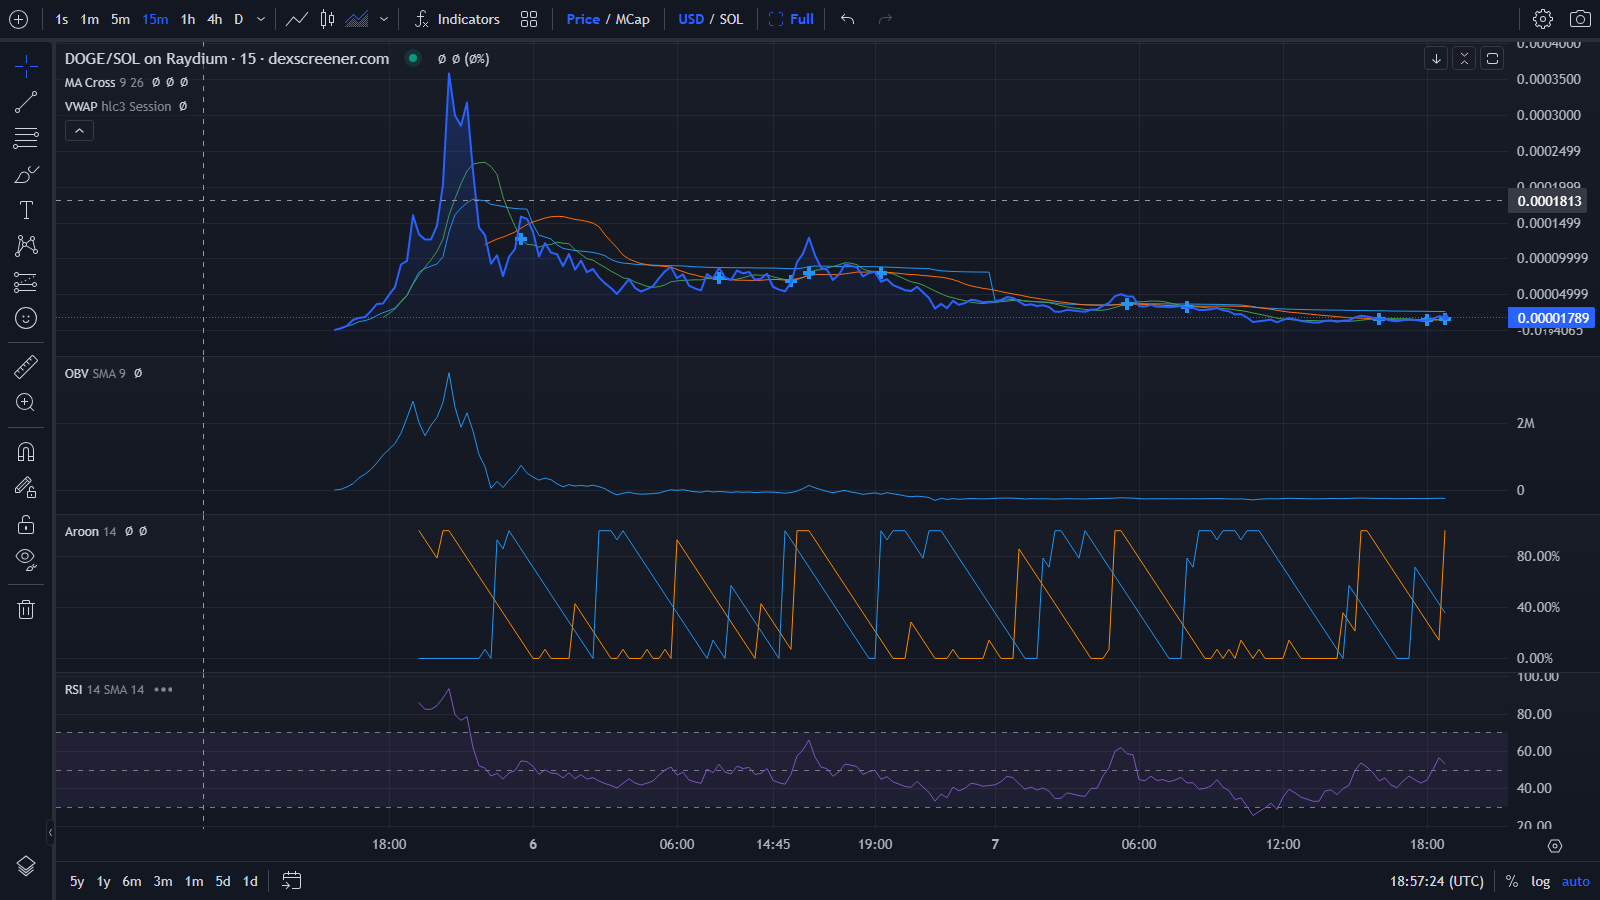
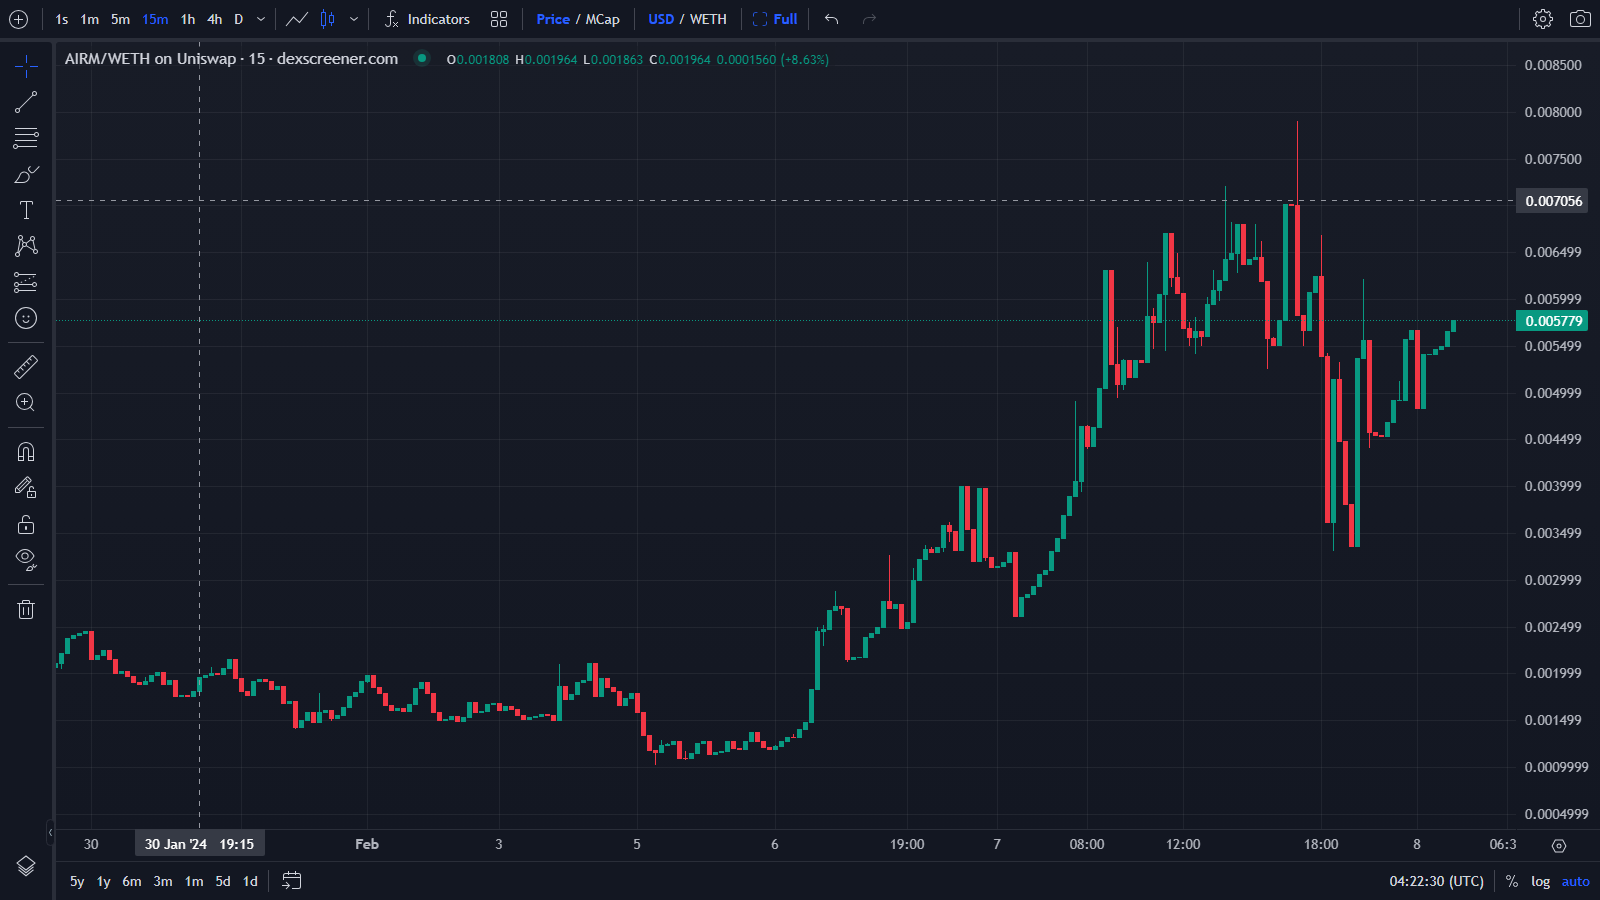
complete: dex

diff --git a/src/main/main_commands.py b/src/main/main_commands.py
@@ -170,24 +170,26 @@ async def dx_handle(update: Update, context: ContextTypes.DEFAULT_TYPE) -> None:
     sent_message = await message.reply_text(f'Searching info of `{user_input}` on {user.chain} for {user.interval} period', parse_mode=ParseMode.MARKDOWN)
 
     chain_name, info = dx_get_info(default_chain=user.chain, user_input=user_input)
+    print(chain_name, info)
+    
     if info:
         if chain_name == True:
-            await dx_final_response(message=sent_message, chain_info=info, interval=user.interval, indicators=user.indicators, style=user.style)
+            await dx_final_response(message=sent_message, context=context, chain_info=info, interval=user.interval, indicators=user.indicators, style=user.style)
         else:
-            await sent_message.edit_text(f'⚠ There isn\'t info of {user_input} on {user.chain}. So researching on {chain_name}.')
-            await dx_select_platform(message=sent_message, chain_info=info, user_input=user_input, interval=user.interval)
+            # await sent_message.edit_text(f'⚠ There isn\'t info of {user_input} on {user.chain}. So researching on {chain_name}.')
+            await dx_select_platform(message=sent_message, context=context, chain_info=info, user_input=user_input, interval=user.interval, indicators=user.indicators, style=user.style)
     else:
-        await sent_message.edit_text(f'❌ The {"symbol" if len(user_input) > 20 else "address"} `{user_input}` you entered is either not available on supported exchanges or could not be matched to a project by our search algorithm. Please contact me directly @fieryfox617',parse_mode=ParseMode.MARKDOWN)
+        await sent_message.edit_text(f'❌ This {"symbol" if len(user_input) > 20 else "address"} you entered is either not available on supported exchanges or could not be matched to a project by our search algorithm. Please contact me directly @fieryfox617',parse_mode=ParseMode.MARKDOWN)
         await asyncio.sleep(5)
         await sent_message.delete()
         # sent_message.reply_photo()
 
-async def dx_final_response(message: Update.message, chain_info:dict, interval:str, indicators:str, style:str) -> None:
+async def dx_final_response(message: Update.message, context: ContextTypes.DEFAULT_TYPE, chain_info:dict, interval:str, indicators:str, style:str) -> None:
     file_path = "screen.png"
     await message.edit_text(f'Generating chart for `{chain_info.pair_address}` on {chain_info.chain_id} for {interval} period', parse_mode=ParseMode.MARKDOWN)
     picture = get_picture(chain=chain_info.chain_id, address=chain_info.pair_address, file_path=file_path, indicators=indicators, style=style)
     if picture != 0:
-        await message.edit_text(f'❌ The {"symbol" if len(chain_info.pair_address) > 20 else "address"} `{chain_info.pair_address}` you entered is either not available on supported exchanges or could not be matched to a project by our search algorithm. Please contact me directly @fieryfox617',parse_mode=ParseMode.MARKDOWN)
+        await message.edit_text(f'❌ This {"symbol" if len(chain_info.pair_address) > 20 else "address"} you entered is either not available on supported exchanges or could not be matched to a project by our search algorithm. Please contact me directly @fieryfox617',parse_mode=ParseMode.MARKDOWN)
         await asyncio.sleep(5)
         await message.delete()
         return None
@@ -227,15 +229,16 @@ async def dx_final_response(message: Update.message, chain_info:dict, interval:s
     reply_markup = InlineKeyboardMarkup([keyboard])
     await message.delete()
     with open(file_path, 'rb') as f:
-        await message.reply_photo(
+        await context.bot.send_photo(
             photo = f,
-            caption=f'📌 Chain: {chain} ({interval})\n\n🏦 DEX Platform: {chain_info.dex_id}\n\n💸 Pair: {pair}\n\n💰 Price USD: {chain_info.price_usd if chain_info.price_usd else '-'} {f'({price_chain}%)' if chain_info.price_usd else ''}\n🌊 Volume: ${volume}\n💦 Liquidity: Total: ${format_number(liquidity.usd)}\n',
+            chat_id=message.chat_id,
+            caption=f'📌 Chain: {chain} ({interval})\n\n🏦 DEX Platform: {chain_info.dex_id}\n\n💸 Pair: {pair}\n\n💰 Price USD: {chain_info.price_usd if chain_info.price_usd else '-'} {f'({price_chain}%)' if chain_info.price_usd else ''}\n🌊 Volume: {'--' if volume == 0 else f'${volume}'}\n💦 Liquidity: Total: ${format_number(liquidity.usd)}\n',
             parse_mode=ParseMode.HTML,
             reply_markup=reply_markup
         )
         log_function("chart", chain_info.chain_id, chain_info.pair_address)
 
-async def dx_select_platform(message: Update.message, chain_info:dict, user_input:str, interval) ->None:
+async def dx_select_platform(message: Update.message, context: ContextTypes.DEFAULT_TYPE, chain_info:dict, user_input:str, interval:str, indicators:str, style:str) ->None:
     platforms = {}
     for i in chain_info:
         if len(i) < 25:
@@ -245,7 +248,7 @@ async def dx_select_platform(message: Update.message, chain_info:dict, user_inpu
     keys = list(platforms.keys())
     back_button_flag=True
     if len(keys) == 1:
-        await dx_final_response(message=message, chain_info=platforms[keys[0]], interval=interval)
+        await dx_final_response(message=message, context=context, chain_info=platforms[keys[0]], interval=interval, indicators=indicators, style=style)
     else:
         for i in range(0, len(keys), 3):
             rows = []
@@ -280,12 +283,12 @@ async def dx_callback_handle(update: Update, context: ContextTypes.DEFAULT_TYPE)
         chat_id = message.chat_id
         user = get_user_by_id(chat_id)
         await message.delete()
-        sent_message = await message.reply_text(f'Searching info of `{pair_address}` on {chain_id} for {interval} period', parse_mode=ParseMode.MARKDOWN)
+        sent_message = await context.bot.send_message(text= f'Searching info of `{pair_address}` on {chain_id} for {interval} period', chat_id=message.chat_id, parse_mode=ParseMode.MARKDOWN)
         chain_name, info = dx_get_info(default_chain=chain_id, user_input=pair_address)
         if chain_name == True:
-            await dx_final_response(message=sent_message, chain_info=info, interval=interval, indicators=user.indicators, style=user.style)
+            await dx_final_response(message=sent_message, context=context, chain_info=info, interval=interval, indicators=user.indicators, style=user.style)
         else:
-            await dx_select_platform(message=sent_message, chain_info=info, user_input=pair_address, interval=interval)
+            await dx_select_platform(message=sent_message, context=context, chain_info=info, user_input=pair_address, interval=interval, indicators=user.indicators, style=user.style)
 
 
 async def i_handle(update: Update, context: ContextTypes.DEFAULT_TYPE) -> None:
@@ -316,16 +319,16 @@ async def i_handle(update: Update, context: ContextTypes.DEFAULT_TYPE) -> None:
     chain_name, info = dx_get_info(default_chain=user.chain, user_input=user_input)
     if info:
         if chain_name == True:
-            await i_final_response(message=sent_message, chain_info=info, interval=user.interval)
+            await i_final_response(message=sent_message,context=context, chain_info=info, interval=user.interval)
         else:
-            await sent_message.edit_text(f'⚠ There isn\'t info of {user_input} on {user.chain}. So researching on {chain_name}.')
-            await i_select_platform(message=sent_message, chain_info=info, user_input=user_input, interval=user.interval)
+            # await sent_message.edit_text(f'⚠ There isn\'t info of {user_input} on {user.chain}. So researching on {chain_name}.')
+            await i_select_platform(message=sent_message, context=context, chain_info=info, user_input=user_input, interval=user.interval)
     else:
-        await sent_message.edit_text(f'❌ The {"symbol" if len(user_input) > 20 else "address"} `{user_input}` you entered is either not available on supported exchanges or could not be matched to a project by our search algorithm. Please contact me directly @fieryfox617',parse_mode=ParseMode.MARKDOWN)
+        await sent_message.edit_text(f'❌ This {"symbol" if len(user_input) > 20 else "address"} you entered is either not available on supported exchanges or could not be matched to a project by our search algorithm. Please contact me directly @fieryfox617',parse_mode=ParseMode.MARKDOWN)
         await asyncio.sleep(5)
         await sent_message.delete()
 
-async def i_final_response(message: Update.message, chain_info:dict, interval:str) -> None:
+async def i_final_response(message: Update.message, context: ContextTypes.DEFAULT_TYPE, chain_info:dict, interval:str) -> None:
     chain = chains_default_name[chain_info.chain_id]
     pair = f'<a href=\'{chain_info.url}\'>{chain_info.base_token.name} / {chain_info.quote_token.name}</a>'
     price = chain_info.price_usd if chain_info.price_usd else None
@@ -362,14 +365,14 @@ async def i_final_response(message: Update.message, chain_info:dict, interval:st
     reply_markup = InlineKeyboardMarkup([keyboard])
 
     await message.edit_text(
-        text=f'📌 Chain: {chain} ({interval})\n\n🏦 DEX Platform: {chain_info.dex_id}\n\n💸 Pair: {pair} \n{created_date if created_date else ""}\n💰 Price USD: {chain_info.price_usd if chain_info.price_usd else '-'} {f'({price_chain}%)' if chain_info.price_usd else ''}\n🛒 PairtransactionCount: Buy: {format_number(pair_count.buys)} / Sell: {format_number(pair_count.sells)}\n\n🌊 Volume: ${volume}\n\n💦 Liquidity: Total: ${format_number(liquidity.usd)}\n     Base: {format_number(liquidity.base)}({chain_info.base_token.symbol}) / Quote: {format_number(liquidity.quote)}({chain_info.quote_token.symbol})',
+        text=f'📌 Chain: {chain} ({interval})\n\n🏦 DEX Platform: {chain_info.dex_id}\n\n💸 Pair: {pair} \n{created_date if created_date else ""}\n💰 Price USD: {chain_info.price_usd if chain_info.price_usd else '-'} {f'({price_chain}%)' if chain_info.price_usd else ''}\n🛒 PairtransactionCount: Buy: {format_number(pair_count.buys)} / Sell: {format_number(pair_count.sells)}\n\n🌊 Volume: {'--' if volume == 0 else f'${volume}'}\n\n💦 Liquidity: Total: ${format_number(liquidity.usd)}\n     Base: {format_number(liquidity.base)}({chain_info.base_token.symbol}) / Quote: {format_number(liquidity.quote)}({chain_info.quote_token.symbol})',
         parse_mode=ParseMode.HTML,
         reply_markup=reply_markup,
         disable_web_page_preview=True
     )
     log_function("general", chain_info.chain_id, chain_info.pair_address)
 
-async def i_select_platform(message: Update.message, chain_info:dict, user_input:str, interval) ->None:
+async def i_select_platform(message: Update.message, context: ContextTypes.DEFAULT_TYPE, chain_info:dict, user_input:str, interval) ->None:
     platforms = {}
     for i in chain_info:
         if len(i) < 25:
@@ -379,7 +382,7 @@ async def i_select_platform(message: Update.message, chain_info:dict, user_input
     keys = list(platforms.keys())
     back_button_flag=True
     if len(keys) == 1:
-        await i_final_response(message=message, chain_info=platforms[keys[0]], interval=interval)
+        await i_final_response(message=message, context=context, chain_info=platforms[keys[0]], interval=interval)
     else:
         for i in range(0, len(keys), 3):
             rows = []
@@ -412,13 +415,13 @@ async def i_callback_handle(update: Update, context: ContextTypes.DEFAULT_TYPE)-
         pair_address = text.split("_")[2]
         interval = text.split("_")[3]
         await message.delete()
-        sent_message = await message.reply_text(f'Searching info of `{pair_address}` on {chain_id} for {interval} period', parse_mode=ParseMode.MARKDOWN)
+        sent_message = await context.bot.send_message(text=f'Searching info of `{pair_address}` on {chain_id} for {interval} period', chat_id=message.chat_id, parse_mode=ParseMode.MARKDOWN)
         
         chain_name, info = dx_get_info(default_chain=chain_id, user_input=pair_address)
         if chain_name == True:
-            await i_final_response(message=sent_message, chain_info=info, interval=interval)
+            await i_final_response(message=sent_message, context=context, chain_info=info, interval=interval)
         else:
-            await i_select_platform(message=sent_message, chain_info=info, user_input=pair_address, interval=interval)
+            await i_select_platform(message=sent_message, context=context, chain_info=info, user_input=pair_address, interval=interval)
 
 
 async def chart_handle(update: Update, context: ContextTypes.DEFAULT_TYPE) -> None:
@@ -449,21 +452,21 @@ async def chart_handle(update: Update, context: ContextTypes.DEFAULT_TYPE) -> No
     chain_name, info = dx_get_info(default_chain=user.chain, user_input=user_input)
     if info:
         if chain_name == True:
-            await chart_final_response(message=sent_message, chain_info=info, interval=user.interval, indicators=user.indicators, style=user.style)
+            await chart_final_response(message=sent_message, context=context, chain_info=info, interval=user.interval, indicators=user.indicators, style=user.style)
         else:
-            await sent_message.edit_text(f'⚠ There isn\'t info of {user_input} on {user.chain}. So researching on {chain_name}.')
-            await chart_select_platform(message=sent_message, chain_info=info, user_input=user_input, interval=user.interval)
+            # await sent_message.edit_text(f'⚠ There isn\'t info of {user_input} on {user.chain}. So researching on {chain_name}.')
+            await chart_select_platform(message=sent_message, context=context, chain_info=info, user_input=user_input, interval=user.interval, indicators=user.indicators, style=user.style)
     else:
-        await sent_message.edit_text(f'❌ The {"symbol" if len(user_input) > 20 else "address"} `{user_input}` you entered is either not available on supported exchanges or could not be matched to a project by our search algorithm. Please contact me directly @fieryfox617',parse_mode=ParseMode.MARKDOWN)
+        await sent_message.edit_text(f'❌ This {"symbol" if len(user_input) > 20 else "address"} you entered is either not available on supported exchanges or could not be matched to a project by our search algorithm. Please contact me directly @fieryfox617',parse_mode=ParseMode.MARKDOWN)
         await asyncio.sleep(5)
         await sent_message.delete()
         # sent_message.reply_photo()
 
-async def chart_final_response(message: Update.message, chain_info:dict, interval:str, indicators:str, style:str) -> None:
+async def chart_final_response(message: Update.message,context: ContextTypes.DEFAULT_TYPE, chain_info:dict, interval:str, indicators:str, style:str) -> None:
     file_path = "screen.png"
     picture = get_picture(chain=chain_info.chain_id, address=chain_info.pair_address, file_path=file_path, indicators=indicators, style=style)
     if picture != 0:
-        await message.edit_text(f'❌ The {"symbol" if len(chain_info.pair_address) > 20 else "address"} `{chain_info.pair_address}` you entered is either not available on supported exchanges or could not be matched to a project by our search algorithm. Please contact me directly @fieryfox617',parse_mode=ParseMode.MARKDOWN)
+        await message.edit_text(f'❌ This {"symbol" if len(chain_info.pair_address) > 20 else "address"} you entered is either not available on supported exchanges or could not be matched to a project by our search algorithm. Please contact me directly @fieryfox617',parse_mode=ParseMode.MARKDOWN)
         await asyncio.sleep(5)
         await message.delete()
         return None
@@ -474,13 +477,14 @@ async def chart_final_response(message: Update.message, chain_info:dict, interva
     reply_markup = InlineKeyboardMarkup([keyboard])
     await message.delete()
     with open(file_path, 'rb') as f:
-        await message.reply_photo(
+        await context.bot.send_photo(
             photo = f,
+            chat_id=message.chat_id,
             reply_markup=reply_markup
         )
         log_function("chart", chain_info.chain_id, chain_info.pair_address)
 
-async def chart_select_platform(message: Update.message, chain_info:dict, user_input:str, interval) ->None:
+async def chart_select_platform(message: Update.message, context: ContextTypes.DEFAULT_TYPE, chain_info:dict, user_input:str, interval:str, indicators:str, style:str) ->None:
     platforms = {}
     for i in chain_info:
         if len(i) < 25:
@@ -490,7 +494,7 @@ async def chart_select_platform(message: Update.message, chain_info:dict, user_i
     keys = list(platforms.keys())
     back_button_flag=True
     if len(keys) == 1:
-        await chart_final_response(message=message, chain_info=platforms[keys[0]], interval=interval)
+        await chart_final_response(message=message, context=context, chain_info=platforms[keys[0]], interval=interval, indicators=indicators, style=style)
     else:
         for i in range(0, len(keys), 3):
             rows = []
@@ -525,12 +529,12 @@ async def chart_callback_handle(update: Update, context: ContextTypes.DEFAULT_TY
         chat_id = message.chat_id
         user = get_user_by_id(chat_id)
         await message.delete()
-        sent_message = await message.reply_text(f'Generating chart for token-pair(`{pair_address}`) on {chain_id} for {interval} period', parse_mode=ParseMode.MARKDOWN)
+        sent_message = await context.bot.send_message(text=f'Generating chart for token-pair(`{pair_address}`) on {chain_id} for {interval} period',chat_id=message.chat_id, parse_mode=ParseMode.MARKDOWN)
         chain_name, info = dx_get_info(default_chain=chain_id, user_input=pair_address)
         if chain_name == True:
-            await chart_final_response(message=sent_message, chain_info=info, interval=interval, indicators=user.indicators, style=user.style)
+            await chart_final_response(message=sent_message, context=context, chain_info=info, interval=interval, indicators=user.indicators, style=user.style)
         else:
-            await chart_select_platform(message=sent_message, chain_info=info, user_input=pair_address, interval=interval)
+            await chart_select_platform(message=sent_message, context=context, chain_info=info, user_input=pair_address, interval=interval, indicators=user.indicators, style=user.style)
 
 
 async def heatmap_handle(update: Update, context: ContextTypes.DEFAULT_TYPE) -> None:
@@ -547,7 +551,7 @@ async def heatmap_handle(update: Update, context: ContextTypes.DEFAULT_TYPE) -> 
             'Which datasource do you like to use?', reply_markup=reply_markup
         )
 
-async def heatmap_blocksize_handle(message: Update.message, datasource:str) -> None:
+async def heatmap_blocksize_handle(message: Update.message, context: ContextTypes.DEFAULT_TYPE, datasource:str) -> None:
     
     # Define the response message and buttons
     keyboard = []
@@ -569,7 +573,7 @@ async def heatmap_callback_handle(update: Update, context: ContextTypes.DEFAULT_
         await message.delete()
     else:
         if len(text.split("_")) == 2:
-            await heatmap_blocksize_handle(message=message, datasource=datasource)
+            await heatmap_blocksize_handle(message=message, context=context, datasource=datasource)
         else:
             blocksize = "_".join(text.split("_")[2::])
             await message.edit_text(f'Generating heatmap by {candidate_blocksize[blocksize]} on {candidate_datasource[datasource]}')
@@ -584,8 +588,9 @@ async def heatmap_callback_handle(update: Update, context: ContextTypes.DEFAULT_
             reply_markup = InlineKeyboardMarkup([[InlineKeyboardButton(text="🔄", callback_data=f'heatmap_{datasource}_{blocksize}')]])
             await message.delete()
             with open(heatmap_path, 'rb') as f:
-                await message.reply_photo(
+                await context.bot.send_photo(
                     photo=f,
+                    chat_id=message.chat_id,
                     caption=f'🕋 Datasource: {candidate_datasource[datasource]}\n📐 Blocksize: {candidate_blocksize[blocksize]}',
                     reply_markup=reply_markup
                 )

diff --git a/src/main/stactic_commands.py b/src/main/stactic_commands.py
@@ -13,17 +13,17 @@ async def bot_start(update: Update, context: ContextTypes.DEFAULT_TYPE) -> None:
     if not get_user_by_id(chat_id):
         create_user(chat_id)
     keyboard = [[
-        InlineKeyboardButton("🦾 Add me to your group", url="telegram.me/AIRMCHATBOT?startgroup=true"),
-        InlineKeyboardButton("🪄 Commands", callback_data='commands'),
+        InlineKeyboardButton("🦾 Add me to your group", url="https://t.me/AIRMCHARTBOT?startgroup=true"),
+        InlineKeyboardButton("🪄 Features", callback_data='features'),
         InlineKeyboardButton("🛠 Settings", callback_data='settings'),
     ]]
     reply_markup = InlineKeyboardMarkup(keyboard)
     await update.message.reply_text(
-        "Hello there! Meet Telegram's ultimate Charting Bot.\n\n"
-        "📊 Dive into charts for 22,000+ crypto tokens across diverse blockchains!\n\n"
-        "🛠 Tailor everything, from timezones to exchanges and even my appearance!\n\n"
-        "➕ Join any group or have a private chat with me.\n\n"
-        "💰 Unlock advertising opportunities on this powerful platform!", reply_markup=reply_markup
+        "Hey there! Step into the world of Telegram's premier Charting Bot.\n\n"
+        "📊 Dive into a sea of charts covering 22,000+ crypto tokens across diverse blockchains!\n\n"
+        "🛠 Personalize your experience by adjusting settings such as timezones, exchanges, and even my appearance!\n\n"
+        "➕ Join any group or engage in private conversations with me.\n\n"
+        "💰 Seize advertising opportunities on this powerful platform!\n\n", reply_markup=reply_markup
     )
 
 
@@ -31,9 +31,9 @@ async def bot_start(update: Update, context: ContextTypes.DEFAULT_TYPE) -> None:
 async def bot_commands(update: Update, context: ContextTypes.DEFAULT_TYPE) -> None:
     message = update.message or update.callback_query.message  # Get the message object
     commands_text = (
-        "🗳 Bot Commands\n"
+        "🗳 Bot Features\n"
         "/start - Displays help text\n"
-        "/commands - Displays all available commands\n"
+        "/features - Displays all available features\n"
         "/version - Displays latest version of the bot\n"
         "/help - How to use the bot\n"
         "/disclaimer - How to use the bot\n"

diff --git a/app.py b/app.py
@@ -16,7 +16,7 @@ API_URL = f"https://api.telegram.org/bot{TOKEN}/setMyCommands"
 
 commands = [
     {"command": "start", "description": "Displays help text"},
-    {"command": "commands", "description": "Displays all available commands"},
+    {"command": "features", "description": "Displays all available bot features"},
     {"command": "version", "description": "Displays latest version of the bot"},
     {"command": "help", "description": "How to use the bot"},
     {"command": "disclaimer", "description": "How to use the bot"},
@@ -29,6 +29,7 @@ commands = [
     {"command": "chart", "description": "Displays either the $AIRM chart or the chart of the symbol that is set by a group admin."},
     {"command": "heatmap", "description": "This command gives you a birds-eye view of crypto. Segment by type of coin, market cap, recent performance and more."},
     {"command": "settings", "description": "Displays all your personal settings and the ability to change them (can be used via DM)"},
+    {"command": "stats", "description": "Displays the bot stats"}
 ]
 
 response = requests.post(API_URL, json={"commands": commands})
@@ -41,8 +42,8 @@ def main() -> None:
     start_handler = CommandHandler('start', bot_start)
     application.add_handler(start_handler)
 
-    # Existing commands handler (triggered by typing "/commands")
-    commands_handler = CommandHandler('commands', bot_commands)
+    # Existing commands handler (triggered by typing "/features")
+    commands_handler = CommandHandler('features', bot_commands)
     application.add_handler(commands_handler)
 
     # Version command handler (adds the functionality for '/version')

diff --git a/src/info/dext.py b/src/info/dext.py
@@ -6,11 +6,11 @@ client = DexscreenerClient()
 
 def get_token_pair_address(chain, address):
     try:
-        info = client.get_token_pair("solana", "Bzd6HtjjBydTqjXpk6oqkx8XzMCsxXoSJwoxiPT1uLKq")
+        info = client.get_token_pair(chain, address)
         return info
     except:
         try:
-            info = client.get_token_pairs("Bzd6HtjjBydTqjXpk6oqkx8XzMCsxXoSJwoxiPT1uLKq")
+            info = client.get_token_pairs(address)
             return info
         except:
             return None
@@ -49,7 +49,7 @@ def dex_token_address_handle(default_chain, info):
             dex_platforms[i.chain_id] = {i.dex_id:[i]}
     
     if default_chain in dex_platforms:
-        return True, dex_platforms[default_chain]
+        return default_chain, dex_platforms[default_chain]
     
     max_price = 0
     chain_id = ""

diff --git a/src/main/handle_callback.py b/src/main/handle_callback.py
@@ -12,7 +12,7 @@ async def callback_query_handler(update: Update, context: ContextTypes.DEFAULT_T
     await query.answer()
 
     # Check if the callback_data matches 'commands'
-    if query.data == 'commands':
+    if query.data == 'features':
         await bot_commands(update, context)
 
     # Below is a placeholder for how you could handle the 'close_heatmap' button press